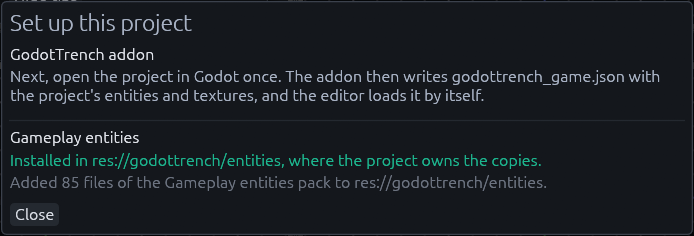
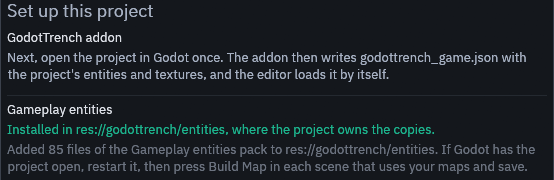
Say what to rebuild after installing the Gameplay pack

Changed region(s): [[0.0, 0.0, 1.0, 1.0]]

diff --git a/docs/godot/project-setup.md b/docs/godot/project-setup.md
@@ -76,10 +76,15 @@ there clashes with it, and an addon update does not undo it.
 
 2. Check that it worked
 
-    The window should now say "Installed in res://trenchdot/entities" in green. The editor offers the new entities
-    right away, and Godot picks up the files and exports the game config again on its own.
+    The window should now say "Installed in res://trenchdot/entities" in green, and the editor offers the new
+    entities right away.
 
-    ![The Gameplay entities section after installing, saying it added 85 files to res://trenchdot/entities](../assets/project-setup/setup-gameplay-installed.png)
+    ![The Gameplay entities section after installing, saying it added 85 files to res://trenchdot/entities and to restart Godot if it has the project open](../assets/project-setup/setup-gameplay-installed.png)
+
+    When a Godot editor has the project open, TrenchDot asks it to pick up the new files, and the window says so. A
+    scene in [live mode](live.md#live-mode) then rebuilds by itself. Press **Build Map** in the other scenes that use
+    your maps and save them, since they were built without the pack. When Godot is not running, or runs an older
+    addon, the window says to restart Godot if it has the project open, then to build and save those scenes.
 
 3. (Optionally) Update it later
 
